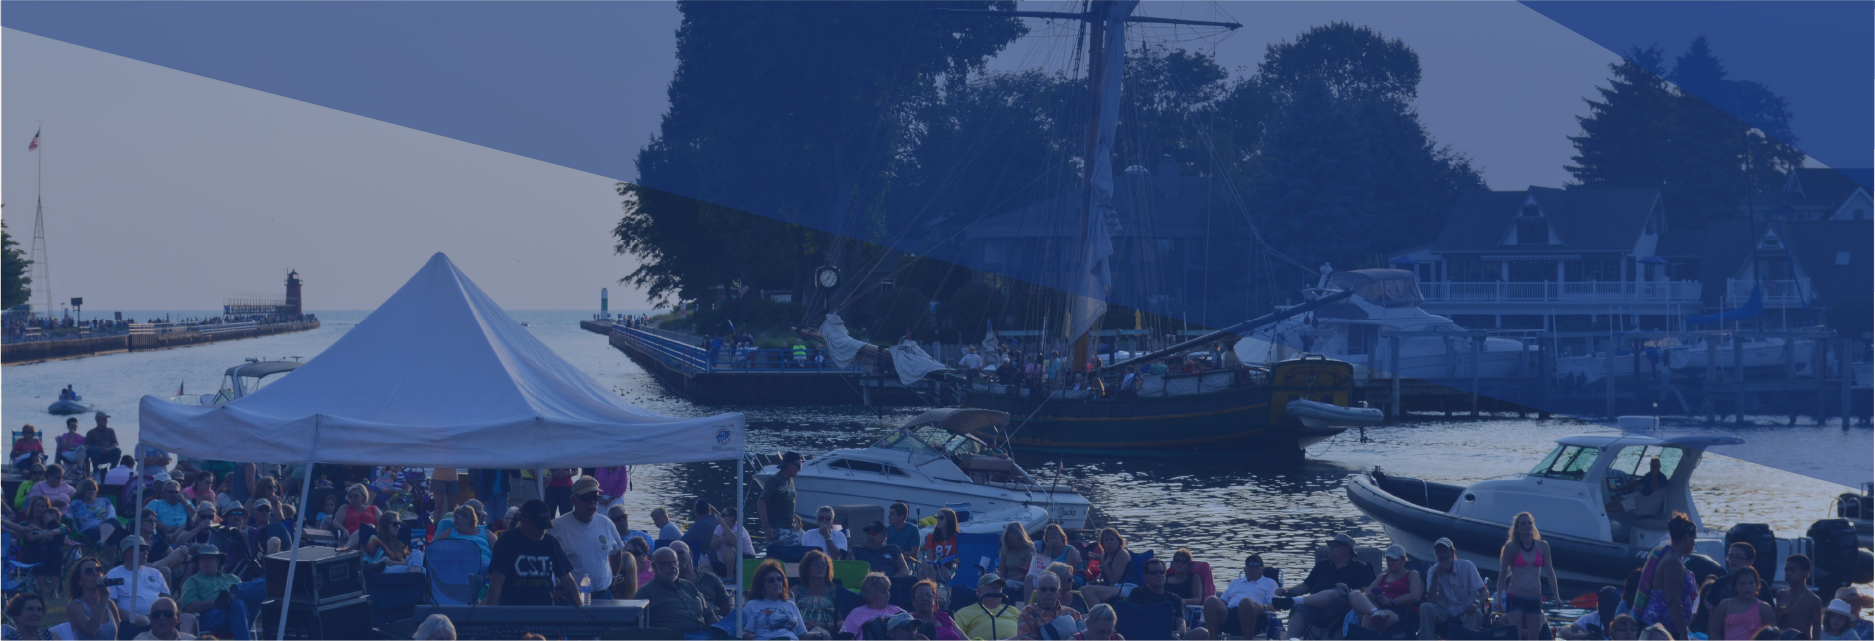
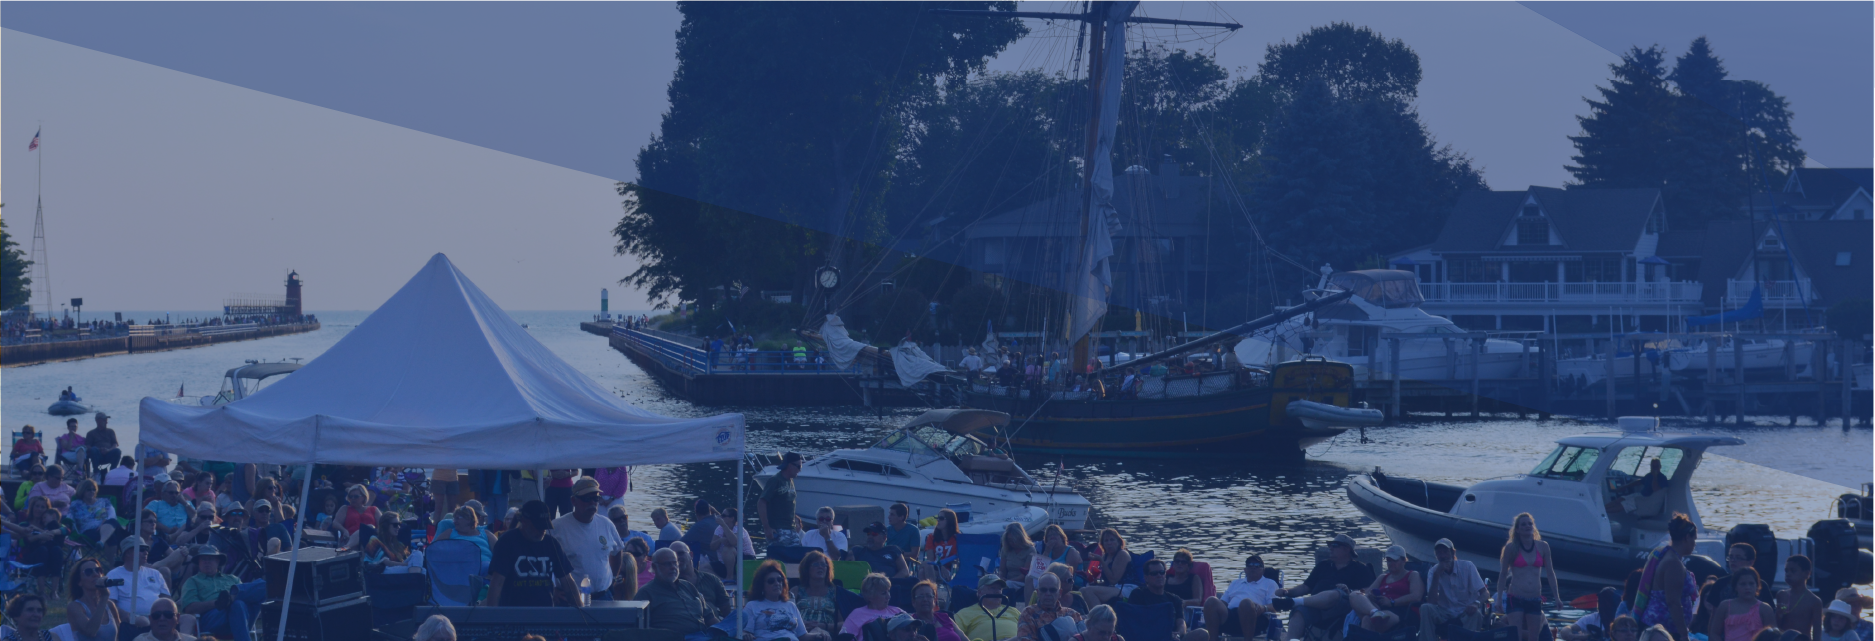
Updated all header images, mobile optimization for COA

diff --git a/src/screens/portfolio/CouncilOnAgingESPScreen/index.jsx b/src/screens/portfolio/CouncilOnAgingESPScreen/index.jsx
@@ -58,7 +58,7 @@ export default function CouncilOnAgingESPScreen() {
                     Council on Aging (COA) assists older adults in their homes through a range of different programs. Their Elderly Services Program (ESP) provides clients with in-home care through their network of third-party providers, empowering them to live alone in their homes.
                 </p>
                 <p>
-                    ESP&apos;s system for billing clients is over 25 years old and confusing for both case managers and clients. COA approached Live Well Collaborative, my co-op company, to research the problem and overhaul the existing billing system.
+                    ESP&apos;s system for billing clients is out-dated and confusing for all stakeholders. COA approached Live Well Collaborative, my co-op company, to research the problem and overhaul the existing billing system.
                 </p>
                 <ul className="team">
                     <li style={{ fontFamily: "input-sans", marginBottom: 8, fontWeight: 500 }}>Live Well Collaborative Teammates</li>
@@ -73,25 +73,20 @@ export default function CouncilOnAgingESPScreen() {
                     <div>
                         <h2>Research Phase</h2>
                         <p>
-                            The team first conducted comprehensive research on COA and the ESP program to better understand how it functions, in addition to researching adjacent organizations in similar industries.
+                            The team first conducted comprehensive research on COA and the ESP program to better understand how it functions, focusing on their standard operating procedures for billing clients. This information is confidential to COA.
                         </p>
-                        <h3>Key Stakeholders</h3>
+                        <p>
+                            The bulk of the secondary research I conducted focused on understanding alternative payment models (APMs) in other industries, as well as understanding how other non-profit groups effectively solicit donations through compelling graphics and narratives. Articles and case studies were compiled and coded into results to inform our intuitions.
+                        </p>
                     </div>
-                    <div className="image" style={{ maxWidth: 1000, marginTop: 64 }}>
-                        <img src={imports['stakeholders']} />
+                    <div className="image" style={{ marginTop: 64, marginBottom: 16 }}>
+                        <img src={imports['research']} />
                     </div>
                 </WidthContainer>
             </section>
 
             <WidthContainer>
-                <h3>Current Billing Process</h3>
-                <p>
-                    In the current ESP system, a client&apos;s income, assets, and medical expenses are put into a “black box” that calculates an adjusted monthly income. This income is placed onto a sliding scale in order to determine the percentage of their copay that they’ll need to pay monthly. Neither COA staff nor clients fully understand why the black box outputs certain percentages, leading to widespread confusion and an inability to catch mistakes when they arise.
-                </p>
-                <div className="image" style={{ maxWidth: 800, marginTop: 64 }}>
-                    <img src={imports['sliding-scale']} />
-                </div>
-                <div className="two-columns" style={{ marginTop: 96 }}>
+                <div className="two-columns">
                     <div className="column">
                         <h3>Primary Research</h3>
                         <p>
@@ -104,7 +99,7 @@ export default function CouncilOnAgingESPScreen() {
                     <div className="column">
                         <h3>Secondary Research</h3>
                         <p>
-                            A critical focus of secondary research was on alternative payment models (APMs) in other industries. I led this research and uncovered a series of different components that make up APMs.
+                            My research uncovered a series of different components that make up any APM. The existing ESP payment model related most closely to the <span className="bold">sliding scale</span>.
                         </p>
                         <div className="image" style={{ maxWidth: 500, marginTop: 64 }}>
                             <img src={imports['apm-components']} />
@@ -143,7 +138,7 @@ export default function CouncilOnAgingESPScreen() {
             <WidthContainer>
                 <h3>3-Tiered Model</h3>
                 <p>
-                    The culmination of all of our findings became the first 3-tiered payment model, which also provided us with a foundation for later design and testing efforts. The fixed rate per service model, or capitated copay, was the most popular with the COA team, making it a crucial inclusion to the new model. Clients in tier I have a low enough monthly income to make it unethical to bill them for services.
+                    The culmination of all of our findings became the first 3-tiered payment model, which also provided us with a foundation for later design and testing efforts. The fixed rate per service model, or capitated copay, was the most popular with the COA team, making it a crucial inclusion to the new model. Clients in tier 1 have a low enough monthly income making it unethical to bill them for services.
                 </p>
                 <div className="image" style={{ maxWidth: 900, marginTop: 64 }}>
                     <img src={imports['tier-introduction']} />
@@ -154,7 +149,7 @@ export default function CouncilOnAgingESPScreen() {
                 <p>
                     In order to compare payment models with each other, I created a graphic that aims to visualize how clients of many different income levels and levels of care will be billed. These graphics would help both our team and the COA team understand our proposal for the duration of the project.
                 </p>
-                <div className="two-columns sticky-model">
+                <div className="two-columns sticky-model desktop">
                     <div className="column image">
                         <div className="image">
                             <img src={imports['colormodel-sliding-scale']} />
@@ -165,11 +160,22 @@ export default function CouncilOnAgingESPScreen() {
                     </div>
                     <div className="column">
                         <div className="image sticky-image">
-                            <img src={imports['colormodel-3-tiers']} style={{ opacity: !colorGraphic1Visible ? 1 : 0 }}/>
-                            <img src={imports['colormodel-3-tiers-problem']} style={{ opacity: colorGraphic1Visible ? 1 : 0 }}/>
+                            <img src={imports['colormodel-3-tiers']} style={{ opacity: !colorGraphic1Visible ? 1 : 0 }} className="mobile-visible"/>
+                            <img src={imports['colormodel-3-tiers-problem']} style={{ opacity: colorGraphic1Visible ? 1 : 0 }} className="desktop" />
                         </div>
                     </div>
                 </div>
+                <div className="two-columns mobile">
+                    <div className="image">
+                        <img src={imports['colormodel-sliding-scale']} />
+                    </div>
+                    <div className="image">
+                        <img src={imports['colormodel-3-tiers']} />
+                    </div>
+                </div>
+                <p className="mobile">
+                    After later deliberations, the team realized the importantance of incorporating level of care into our payment model. The only way to adjust price for level of care would be to <span className="bold">standardize level of care</span>, as ESP&apos;s services are each unique in their units and distributions.
+                </p>
             </WidthContainer>
             <WidthContainer>
                 <h3>Standardizing Level of Care</h3>
@@ -210,10 +216,18 @@ export default function CouncilOnAgingESPScreen() {
                                 </p>
                             </div>
                         </div>
-                        <div className="column">
+                        <div className="column desktop">
                             <div className="image sticky-image padded-images" style={{ maxWidth: 480, backgroundColor: '#000' }}>
-                                <img src={imports['colormodel-3-tiers-subtiers-problem']} style={{ opacity: !colorGraphic2Visible ? 1 : 0 }}/>
-                                <img src={imports['colormodel-4-tiers-subtiers']} style={{ opacity: colorGraphic2Visible ? 1 : 0 }}/>
+                                <img src={imports['colormodel-3-tiers-subtiers-problem']} style={{ opacity: !colorGraphic2Visible ? 1 : 0 }} />
+                                <img src={imports['colormodel-4-tiers-subtiers']} style={{ opacity: colorGraphic2Visible ? 1 : 0 }} />
+                            </div>
+                        </div>
+                        <div className="column mobile two-columns" style={{ backgroundColor: '#000', boxSizing: 'border-box', padding: 16 }}>
+                            <div className="image">
+                                <img src={imports['colormodel-3-tiers-subtiers-problem']} />
+                            </div>
+                            <div className="image">
+                                <img src={imports['colormodel-4-tiers-subtiers']} />
                             </div>
                         </div>
                     </div>

diff --git a/src/screens/AboutScreen/index.jsx b/src/screens/AboutScreen/index.jsx
@@ -1,6 +1,8 @@
 import React from 'react';
 import MetaTags from 'components/MetaTags';
 import Section from 'components/Section';
+import Headshot from 'assets/images/alex-image.jpg';
+import './style.scss';
 
 /**
  * The About Me screen.
@@ -14,12 +16,16 @@ export default function AboutScreen() {
             />
             <Section>
                 <h2>About Me</h2>
+                <p>
+                    I&apos;m currently a Communication Design student at the University of Cincinnati, specializing in UI design and development. With a minor in Computer Science, I have a strong foundation in software development as well. My experience in both programming and design permits me to approach projects from multiple angles and take on various roles throughout a product lifecycle. My combined skills even enabled me to design and <a href="https://github.com/Acr515/AlexRummel-React" rel="noreferrer" target="_blank">program</a> this entire website from scratch!
+                </p>
 				<p>
 					I grew up in South Haven, Michigan and graduated from South Haven High School. I was involved in band, FIRST Robotics, and tennis for all four of my years in high school. During my free-time, I enjoy playing tennis, developing my various programming projects, helping out FIRST Robotics teams, and spending time with friends and family.
 				</p>
 				<p>
 					I&apos;m always looking for new opportunities! If you think I could be of assistance for your next project, feel free to get in contact with me through my <a href="https://www.linkedin.com/in/alex-rummel/">LinkedIn</a> or my <a href="mailto:rummelac@mail.uc.edu">email</a>.
 				</p>
+                <img src={Headshot} className="headshot" />
             </Section>
         </div>
     )

diff --git a/src/screens/portfolio/CouncilOnAgingESPScreen/style.scss b/src/screens/portfolio/CouncilOnAgingESPScreen/style.scss
@@ -97,4 +97,31 @@
             width: 50%;
         }
     }
+    .mobile {
+        display: none;
+    }
+
+    @media (max-width: $MOBILE_MQ) {
+        .two-columns {
+            flex-direction: column;
+            gap: 48px;
+            .column {
+                width: 100%;
+            }
+        }
+        .two-columns.mobile {
+            flex-direction: row;
+            display: flex;
+            margin-top: 48px;
+        }
+        .two-columns.sticky-model .long-text {
+            margin: revert;
+        }
+        .desktop {
+            display: none;
+        }
+        .mobile {
+            display: revert;
+        }
+    }
 }

diff --git a/src/projects/CouncilOnAgingESP/imports.js b/src/projects/CouncilOnAgingESP/imports.js
@@ -9,8 +9,8 @@ const imports = {
     "primary-research": require('./assets/primary-research.png'),
     "tier-introduction": require('./assets/tier-introduction.png'),
     "tier-worksheet": require('./assets/tier-worksheet.png'),
-    "sliding-scale": require('./assets/sliding-scale.png'),
     "stakeholders": require('./assets/stakeholders.png'),
+    "research": require('./assets/research.png'),
     "colormodel-sliding-scale": require('./assets/colormodel-sliding-scale.png'),
     "colormodel-3-tiers": require('./assets/colormodel-3-tiers.png'),
     "colormodel-3-tiers-problem": require('./assets/colormodel-3-tiers-problem.png'),

diff --git a/src/screens/AboutScreen/style.scss b/src/screens/AboutScreen/style.scss
@@ -1,0 +1,8 @@
+._AboutMeScreen {
+    .headshot {
+        margin: 32px auto;
+        display: block;
+        width: 100%;
+        max-width: 300px;
+    }
+}

diff --git a/src/screens/HomeScreen/style.scss b/src/screens/HomeScreen/style.scss
@@ -7,6 +7,7 @@
         left: 0;
         z-index: -10;
         overflow: hidden;
+        opacity: .9;
 
         .video-element {
             width: 100%;
